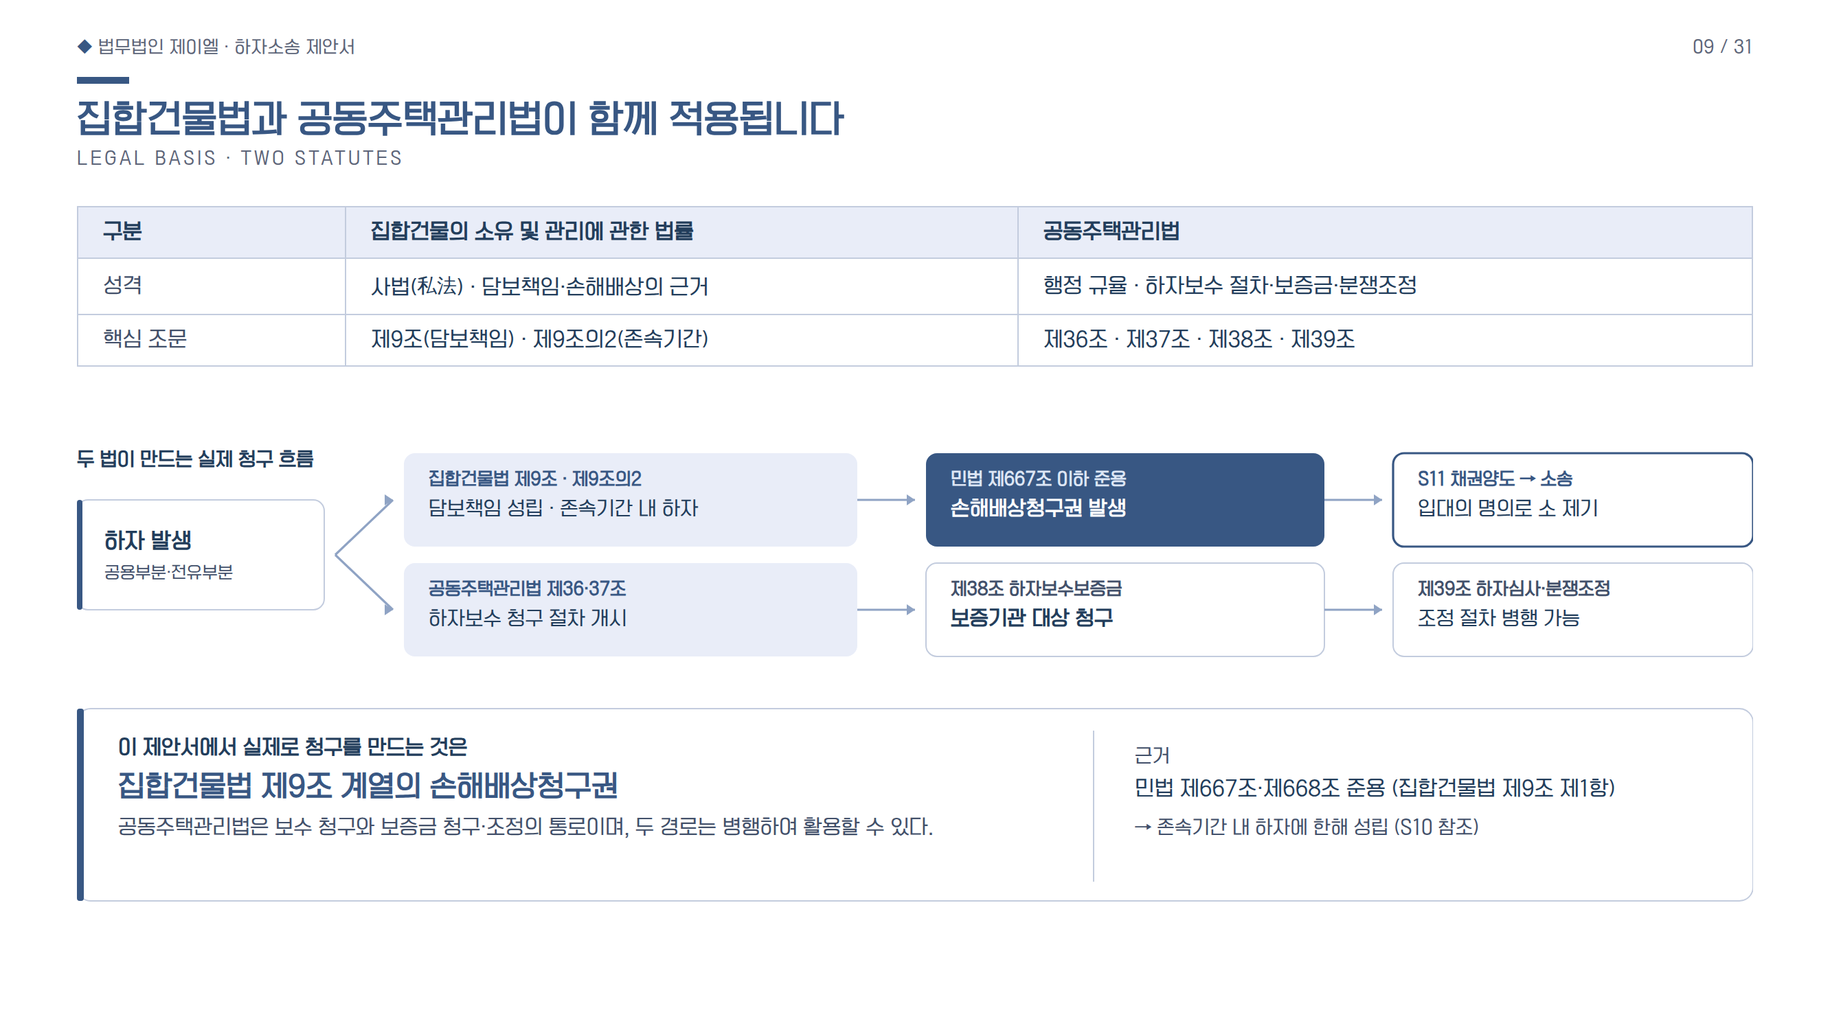
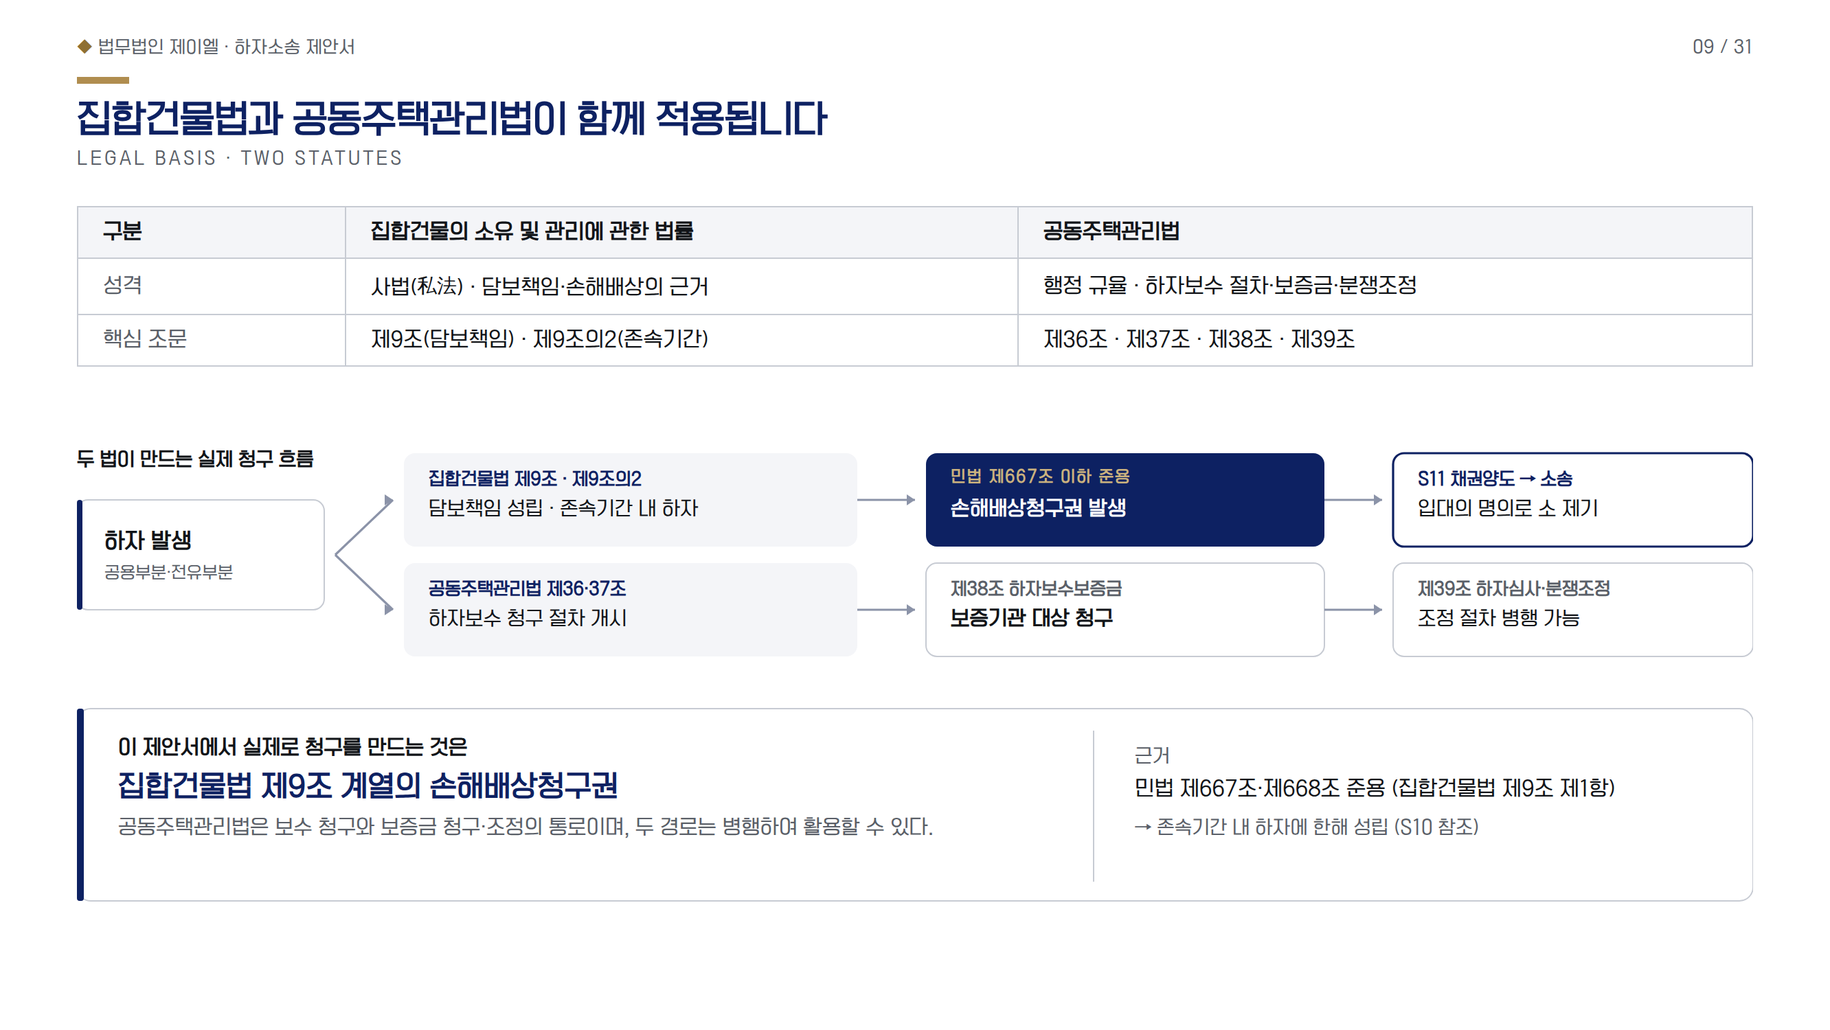
실제 홈페이지 톤(네이비+골드)으로 전환, S27 변호사 슬라이드 완성
지명원 파스텔톤이 아니라 kingjin77-rgb/jl-lawfirm-homepage 실제 CSS가
진짜 브랜드임을 확인. master.css를 NAVY #0D2162 + GOLD #B08D4F 체계로 교체.

- master.css: navy/gold 토큰, eyebrow 라벨, split(사진-텍스트) 패널 컴포넌트 추가
- S9: 네이비+골드로 재색칠
- S27 담당변호사 신규: 홈페이지 lawyer-grid 패턴 그대로 적용,
  변호사 6인 실제 사진(assets/lawyers/)으로 고선명 카드 그리드 제작
- 11 브랜드스타일가이드: 홈페이지 기준을 최우선으로 개정,
  leader/magfeature/lawyer-grid 실제 CSS 패턴 문서화

Claude-Session: https://claude.ai/code/session_01McKVzc7RRv66NSkAtofwT1

diff --git a/template/slides/fixed/s09_이원구조.html b/template/slides/fixed/s09_이원구조.html
@@ -9,89 +9,89 @@
   </div>
 
   <table style="position:absolute;top:150px;left:56px;right:56px;width:1220px;border-collapse:collapse;font-size:14.5px;">
-    <tr style="background:#E9EDF8;">
-      <th style="width:16%;text-align:left;padding:10px 18px;border:1.4px solid #C3CCDE;color:#223D5B;">구분</th>
-      <th style="text-align:left;padding:10px 18px;border:1.4px solid #C3CCDE;color:#223D5B;">집합건물의 소유 및 관리에 관한 법률</th>
-      <th style="text-align:left;padding:10px 18px;border:1.4px solid #C3CCDE;color:#223D5B;">공동주택관리법</th>
+    <tr style="background:#F4F5F8;">
+      <th style="width:16%;text-align:left;padding:10px 18px;border:1.4px solid #C7CBD3;color:#111418;">구분</th>
+      <th style="text-align:left;padding:10px 18px;border:1.4px solid #C7CBD3;color:#111418;">집합건물의 소유 및 관리에 관한 법률</th>
+      <th style="text-align:left;padding:10px 18px;border:1.4px solid #C7CBD3;color:#111418;">공동주택관리법</th>
     </tr>
     <tr>
-      <td style="padding:10px 18px;border:1.4px solid #C3CCDE;color:#42506A;">성격</td>
-      <td style="padding:10px 18px;border:1.4px solid #C3CCDE;">사법(私法) · 담보책임·손해배상의 근거</td>
-      <td style="padding:10px 18px;border:1.4px solid #C3CCDE;">행정 규율 · 하자보수 절차·보증금·분쟁조정</td>
+      <td style="padding:10px 18px;border:1.4px solid #C7CBD3;color:#5A5F68;">성격</td>
+      <td style="padding:10px 18px;border:1.4px solid #C7CBD3;">사법(私法) · 담보책임·손해배상의 근거</td>
+      <td style="padding:10px 18px;border:1.4px solid #C7CBD3;">행정 규율 · 하자보수 절차·보증금·분쟁조정</td>
     </tr>
     <tr>
-      <td style="padding:10px 18px;border:1.4px solid #C3CCDE;color:#42506A;">핵심 조문</td>
-      <td style="padding:10px 18px;border:1.4px solid #C3CCDE;">제9조(담보책임) · 제9조의2(존속기간)</td>
-      <td style="padding:10px 18px;border:1.4px solid #C3CCDE;">제36조 · 제37조 · 제38조 · 제39조</td>
+      <td style="padding:10px 18px;border:1.4px solid #C7CBD3;color:#5A5F68;">핵심 조문</td>
+      <td style="padding:10px 18px;border:1.4px solid #C7CBD3;">제9조(담보책임) · 제9조의2(존속기간)</td>
+      <td style="padding:10px 18px;border:1.4px solid #C7CBD3;">제36조 · 제37조 · 제38조 · 제39조</td>
     </tr>
   </table>
 
   <!-- 아래 절반: 실제 흐름 다이어그램으로 채움 -->
   <svg width="1220" height="370" viewBox="0 0 1220 370" style="position:absolute;top:320px;left:56px;">
-    <text x="0" y="18" font-size="13" font-weight="700" fill="#223D5B">두 법이 만드는 실제 청구 흐름</text>
-    <text x="1120" y="18" font-size="11" fill="#5C6478" letter-spacing="1" text-anchor="end">CLAIM FLOW</text>
+    <text x="0" y="18" font-size="13" font-weight="700" fill="#111418">두 법이 만드는 실제 청구 흐름</text>
+    <text x="1120" y="18" font-size="11" fill="#5A5F68" letter-spacing="1" text-anchor="end">CLAIM FLOW</text>
 
     <!-- 하자 발생 -->
-    <rect x="0" y="44" width="180" height="80" rx="8" fill="#FFFFFF" stroke="#C3CCDE"/>
-    <rect x="0" y="44" width="4" height="80" rx="2" fill="#385783"/>
-    <text x="20" y="78" font-size="15" font-weight="700" fill="#223D5B">하자 발생</text>
-    <text x="20" y="100" font-size="11.5" fill="#42506A">공용부분·전유부분</text>
+    <rect x="0" y="44" width="180" height="80" rx="8" fill="#FFFFFF" stroke="#C7CBD3"/>
+    <rect x="0" y="44" width="4" height="80" rx="2" fill="#0D2162"/>
+    <text x="20" y="78" font-size="15" font-weight="700" fill="#111418">하자 발생</text>
+    <text x="20" y="100" font-size="11.5" fill="#5A5F68">공용부분·전유부분</text>
 
     <!-- 화살표 분기 -->
-    <path d="M188,84 L230,44" stroke="#8FA3C4" stroke-width="1.6" fill="none"/>
-    <path d="M188,84 L230,124" stroke="#8FA3C4" stroke-width="1.6" fill="none"/>
-    <polygon points="230,44 224,48 224,40" fill="#8FA3C4"/>
-    <polygon points="230,124 224,128 224,120" fill="#8FA3C4"/>
+    <path d="M188,84 L230,44" stroke="#8B93A8" stroke-width="1.6" fill="none"/>
+    <path d="M188,84 L230,124" stroke="#8B93A8" stroke-width="1.6" fill="none"/>
+    <polygon points="230,44 224,48 224,40" fill="#8B93A8"/>
+    <polygon points="230,124 224,128 224,120" fill="#8B93A8"/>
 
     <!-- 상단: 집합건물법 트랙 -->
-    <rect x="238" y="10" width="330" height="68" rx="8" fill="#E9EDF8"/>
-    <text x="256" y="32" font-size="12" font-weight="700" fill="#385783">집합건물법 제9조 · 제9조의2</text>
-    <text x="256" y="54" font-size="13.5" fill="#223D5B">담보책임 성립 · 존속기간 내 하자</text>
+    <rect x="238" y="10" width="330" height="68" rx="8" fill="#F4F5F8"/>
+    <text x="256" y="32" font-size="12" font-weight="700" fill="#0D2162">집합건물법 제9조 · 제9조의2</text>
+    <text x="256" y="54" font-size="13.5" fill="#111418">담보책임 성립 · 존속기간 내 하자</text>
 
-    <path d="M568,44 L610,44" stroke="#8FA3C4" stroke-width="1.6" fill="none"/>
-    <polygon points="610,44 604,48 604,40" fill="#8FA3C4"/>
+    <path d="M568,44 L610,44" stroke="#8B93A8" stroke-width="1.6" fill="none"/>
+    <polygon points="610,44 604,48 604,40" fill="#8B93A8"/>
 
-    <rect x="618" y="10" width="290" height="68" rx="8" fill="#385783"/>
-    <text x="636" y="32" font-size="12" font-weight="700" fill="#DDE6F5">민법 제667조 이하 준용</text>
+    <rect x="618" y="10" width="290" height="68" rx="8" fill="#0D2162"/>
+    <text x="636" y="30" font-size="11" font-weight="700" fill="#CBB27E" letter-spacing="1">민법 제667조 이하 준용</text>
     <text x="636" y="54" font-size="14" font-weight="700" fill="#FFFFFF">손해배상청구권 발생</text>
 
-    <path d="M908,44 L950,44" stroke="#8FA3C4" stroke-width="1.6" fill="none"/>
-    <polygon points="950,44 944,48 944,40" fill="#8FA3C4"/>
+    <path d="M908,44 L950,44" stroke="#8B93A8" stroke-width="1.6" fill="none"/>
+    <polygon points="950,44 944,48 944,40" fill="#8B93A8"/>
 
-    <rect x="958" y="10" width="262" height="68" rx="8" fill="#FFFFFF" stroke="#385783" stroke-width="1.6"/>
-    <text x="976" y="32" font-size="12" font-weight="700" fill="#385783">S11 채권양도 → 소송</text>
-    <text x="976" y="54" font-size="13.5" fill="#223D5B">입대의 명의로 소 제기</text>
+    <rect x="958" y="10" width="262" height="68" rx="8" fill="#FFFFFF" stroke="#0D2162" stroke-width="1.6"/>
+    <text x="976" y="32" font-size="12" font-weight="700" fill="#0D2162">S11 채권양도 → 소송</text>
+    <text x="976" y="54" font-size="13.5" fill="#111418">입대의 명의로 소 제기</text>
 
     <!-- 하단: 공동주택관리법 트랙 -->
-    <rect x="238" y="90" width="330" height="68" rx="8" fill="#E9EDF8"/>
-    <text x="256" y="112" font-size="12" font-weight="700" fill="#385783">공동주택관리법 제36·37조</text>
-    <text x="256" y="134" font-size="13.5" fill="#223D5B">하자보수 청구 절차 개시</text>
+    <rect x="238" y="90" width="330" height="68" rx="8" fill="#F4F5F8"/>
+    <text x="256" y="112" font-size="12" font-weight="700" fill="#0D2162">공동주택관리법 제36·37조</text>
+    <text x="256" y="134" font-size="13.5" fill="#111418">하자보수 청구 절차 개시</text>
 
-    <path d="M568,124 L610,124" stroke="#8FA3C4" stroke-width="1.6" fill="none"/>
-    <polygon points="610,124 604,128 604,120" fill="#8FA3C4"/>
+    <path d="M568,124 L610,124" stroke="#8B93A8" stroke-width="1.6" fill="none"/>
+    <polygon points="610,124 604,128 604,120" fill="#8B93A8"/>
 
-    <rect x="618" y="90" width="290" height="68" rx="8" fill="#FFFFFF" stroke="#C3CCDE"/>
-    <text x="636" y="112" font-size="12" font-weight="700" fill="#42506A">제38조 하자보수보증금</text>
-    <text x="636" y="134" font-size="14" font-weight="700" fill="#223D5B">보증기관 대상 청구</text>
+    <rect x="618" y="90" width="290" height="68" rx="8" fill="#FFFFFF" stroke="#C7CBD3"/>
+    <text x="636" y="112" font-size="12" font-weight="700" fill="#5A5F68">제38조 하자보수보증금</text>
+    <text x="636" y="134" font-size="14" font-weight="700" fill="#111418">보증기관 대상 청구</text>
 
-    <path d="M908,124 L950,124" stroke="#8FA3C4" stroke-width="1.6" fill="none"/>
-    <polygon points="950,124 944,128 944,120" fill="#8FA3C4"/>
+    <path d="M908,124 L950,124" stroke="#8B93A8" stroke-width="1.6" fill="none"/>
+    <polygon points="950,124 944,128 944,120" fill="#8B93A8"/>
 
-    <rect x="958" y="90" width="262" height="68" rx="8" fill="#FFFFFF" stroke="#C3CCDE"/>
-    <text x="976" y="112" font-size="12" font-weight="700" fill="#42506A">제39조 하자심사·분쟁조정</text>
-    <text x="976" y="134" font-size="13.5" fill="#223D5B">조정 절차 병행 가능</text>
+    <rect x="958" y="90" width="262" height="68" rx="8" fill="#FFFFFF" stroke="#C7CBD3"/>
+    <text x="976" y="112" font-size="12" font-weight="700" fill="#5A5F68">제39조 하자심사·분쟁조정</text>
+    <text x="976" y="134" font-size="13.5" fill="#111418">조정 절차 병행 가능</text>
 
     <!-- 하단 결론 밴드 -->
-    <rect x="0" y="196" width="1220" height="140" rx="10" fill="#FFFFFF" stroke="#C3CCDE"/>
-    <rect x="0" y="196" width="5" height="140" rx="2" fill="#385783"/>
-    <text x="30" y="228" font-size="14" font-weight="700" fill="#223D5B">이 제안서에서 실제로 청구를 만드는 것은</text>
-    <text x="30" y="258" font-size="20" font-weight="700" fill="#385783">집합건물법 제9조 계열의 손해배상청구권</text>
-    <text x="30" y="286" font-size="14" fill="#42506A">공동주택관리법은 보수 청구와 보증금 청구·조정의 통로이며, 두 경로는 병행하여 활용할 수 있다.</text>
+    <rect x="0" y="196" width="1220" height="140" rx="10" fill="#FFFFFF" stroke="#C7CBD3"/>
+    <rect x="0" y="196" width="5" height="140" rx="2" fill="#0D2162"/>
+    <text x="30" y="228" font-size="14" font-weight="700" fill="#111418">이 제안서에서 실제로 청구를 만드는 것은</text>
+    <text x="30" y="258" font-size="20" font-weight="700" fill="#0D2162">집합건물법 제9조 계열의 손해배상청구권</text>
+    <text x="30" y="286" font-size="14" fill="#5A5F68">공동주택관리법은 보수 청구와 보증금 청구·조정의 통로이며, 두 경로는 병행하여 활용할 수 있다.</text>
 
-    <line x1="740" y1="212" x2="740" y2="322" stroke="#C3CCDE"/>
-    <text x="770" y="234" font-size="13" fill="#42506A">근거</text>
-    <text x="770" y="258" font-size="14.5" fill="#223D5B">민법 제667조·제668조 준용 (집합건물법 제9조 제1항)</text>
-    <text x="770" y="286" font-size="13" fill="#42506A">→ 존속기간 내 하자에 한해 성립 (S10 참조)</text>
+    <line x1="740" y1="212" x2="740" y2="322" stroke="#C7CBD3"/>
+    <text x="770" y="234" font-size="13" fill="#5A5F68">근거</text>
+    <text x="770" y="258" font-size="14.5" fill="#111418">민법 제667조·제668조 준용 (집합건물법 제9조 제1항)</text>
+    <text x="770" y="286" font-size="13" fill="#5A5F68">→ 존속기간 내 하자에 한해 성립 (S10 참조)</text>
   </svg>
 
   <div class="footer"><span class="firm">법무법인 제이엘</span><span>JL LAWFIRM</span></div>

diff --git a/template/slides/fixed/s27_담당변호사.html b/template/slides/fixed/s27_담당변호사.html
@@ -1,0 +1,87 @@
+<!doctype html><html><head><meta charset="utf-8">
+<link rel="stylesheet" href="../_master.css">
+<style>
+.lgrid{position:absolute;top:150px;left:56px;right:56px;bottom:44px;display:grid;
+  grid-template-columns:repeat(6,1fr);gap:14px;}
+.lcard{background:#fff;border:1px solid #C7CBD3;display:flex;flex-direction:column;overflow:hidden;}
+.lphoto{position:relative;aspect-ratio:4/5;overflow:hidden;background:radial-gradient(circle at 50% 30%,#EFF2FB,#dfe3ec);}
+.lphoto img{width:100%;height:100%;object-fit:cover;display:block;}
+.lbody{padding:14px 14px 16px;flex:1;display:flex;flex-direction:column;}
+.lrole{font-size:10px;letter-spacing:.14em;color:#0D2162;font-weight:700;}
+.lname{margin-top:6px;font-size:17px;font-weight:800;color:#111418;}
+.lcareer{margin-top:10px;border-top:1px solid #C7CBD3;padding-top:10px;flex:1;}
+.lcareer li{position:relative;padding-left:11px;font-size:11px;color:#5A5F68;line-height:1.55;margin-bottom:4px;}
+.lcareer li::before{content:"";position:absolute;left:0;top:6px;width:3px;height:3px;background:#B6BBC2;border-radius:50%;}
+.lcareer li strong{color:#222;font-weight:600;}
+</style></head>
+<body>
+  <div class="runner"><span><span class="mark">◆</span> 법무법인 제이엘 · 하자소송 제안서</span><span>27 / 31</span></div>
+  <div class="title-block">
+    <div class="title-mark"></div>
+    <div class="title-kr">6인의 변호사가 이 사건을 직접 수행합니다</div>
+    <div class="title-en">ASSOCIATE ATTORNEYS</div>
+  </div>
+
+  <div class="lgrid">
+    <div class="lcard">
+      <div class="lphoto"><img src="img/박종일.png"></div>
+      <div class="lbody"><div class="lrole">대표변호사</div><div class="lname">박종일</div>
+        <ul class="lcareer">
+          <li><strong>사법고시 38회</strong> · 연수원 28기</li>
+          <li>수원·광주·부산지검 부장검사</li>
+          <li>제21회 공인회계사</li>
+          <li>경기도 법률자문위원</li>
+        </ul></div>
+    </div>
+    <div class="lcard">
+      <div class="lphoto"><img src="img/이지훈.png"></div>
+      <div class="lbody"><div class="lrole">변호사</div><div class="lname">이지훈</div>
+        <ul class="lcareer">
+          <li><strong>사법고시 52회</strong> · 연수원 42기</li>
+          <li>세무사 자격 · 건설 전문</li>
+          <li>신한·하나은행 법률자문</li>
+          <li>경기주택도시공사 법률고문</li>
+        </ul></div>
+    </div>
+    <div class="lcard">
+      <div class="lphoto"><img src="img/장우진.png"></div>
+      <div class="lbody"><div class="lrole">변호사</div><div class="lname">장우진</div>
+        <ul class="lcareer">
+          <li><strong>사법고시 52회</strong> · 연수원 42기</li>
+          <li>서울중앙지검·고검 공익법무관</li>
+          <li>서울중앙지법 민사조정위원</li>
+          <li>고려대 법과대학</li>
+        </ul></div>
+    </div>
+    <div class="lcard">
+      <div class="lphoto"><img src="img/임준규.png"></div>
+      <div class="lbody"><div class="lrole">변호사</div><div class="lname">임준규</div>
+        <ul class="lcareer">
+          <li><strong>사법고시 52회</strong> · 연수원 42기</li>
+          <li>형사법 전문 · 대한법률구조공단</li>
+          <li>법무부 국가송무·공익법무관</li>
+          <li>EY한영회계법인 세무본부</li>
+        </ul></div>
+    </div>
+    <div class="lcard">
+      <div class="lphoto"><img src="img/하혜용.png"></div>
+      <div class="lbody"><div class="lrole">변호사</div><div class="lname">하혜용</div>
+        <ul class="lcareer">
+          <li><strong>제10회 변호사시험</strong></li>
+          <li>충북대학교 법학전문대학원</li>
+          <li>인하대학교 법학과</li>
+        </ul></div>
+    </div>
+    <div class="lcard">
+      <div class="lphoto"><img src="img/오현진.jpg"></div>
+      <div class="lbody"><div class="lrole">변호사</div><div class="lname">오현진</div>
+        <ul class="lcareer">
+          <li><strong>제14회 변호사시험</strong></li>
+          <li>헌법재판소 실무수습</li>
+          <li>사법연수원 재판실무심화연수</li>
+        </ul></div>
+    </div>
+  </div>
+
+  <div class="footer"><span class="firm">법무법인 제이엘</span><span>JL LAWFIRM</span></div>
+</body></html>

diff --git a/template/slides/_master.css b/template/slides/_master.css
@@ -1,7 +1,11 @@
 /* 기본제안서 마스터 스타일 — 11_브랜드_스타일가이드.md 기준 */
+/* 홈페이지(kingjin77-rgb/jl-lawfirm-homepage) 실제 톤앤매너 기준.
+   지명원(인쇄 소개서) 파스텔톤이 아니라 이 값이 진짜 브랜드다. */
 :root{
-  --primary:#385783; --ink:#223D5B; --dark:#2A3B4F; --muted:#5C6478;
-  --card:#E9EDF8; --watermark:#C7CEE1; --line:#C3CCDE; --bg:#FFFFFF;
+  --navy:#0D2162; --navy-deep:#081541; --navy-soft:#EFF2FB;
+  --gold:#B08D4F; --gold-light:#CBB27E; --gold-ink:#8F7033;
+  --primary:#0D2162; --ink:#111418; --dark:#081541; --muted:#5A5F68;
+  --card:#F4F5F8; --watermark:#DDE2ED; --line:#C7CBD3; --bg:#FFFFFF;
   --alert:#C0392B; --warn:#E67E22;
 }
 @font-face{font-family:'210 옴니고딕';src:local('210 옴니고딕 030');}
@@ -12,17 +16,27 @@ body{width:1332px;height:750px;background:var(--bg);
 /* 상단 러너 */
 .runner{position:absolute;top:28px;left:56px;right:56px;display:flex;justify-content:space-between;
   font-size:12px;color:var(--muted);letter-spacing:.02em;}
-.runner .mark{color:var(--primary);}
+.runner .mark{color:var(--gold-ink);}
+.eyebrow{font-size:12px;letter-spacing:.2em;color:var(--gold-ink);font-weight:700;
+  display:inline-flex;align-items:center;gap:10px;}
+.eyebrow::before{content:"";width:32px;height:1px;background:var(--gold-ink);}
 /* 제목 마크 */
 .title-block{position:absolute;top:56px;left:56px;}
-.title-mark{width:38px;height:5px;background:var(--primary);margin-bottom:12px;}
-.title-kr{font-size:26px;font-weight:700;color:var(--primary);}
+.title-mark{width:38px;height:5px;background:var(--gold);margin-bottom:12px;}
+.title-kr{font-size:26px;font-weight:800;color:var(--navy);letter-spacing:-.02em;}
 .title-en{font-size:12px;color:var(--muted);letter-spacing:.16em;margin-top:6px;}
 /* 하단 브랜드바 */
 .footer{position:absolute;bottom:0;left:0;right:0;height:36px;
   display:flex;align-items:center;justify-content:space-between;
   padding:0 56px;border-top:1.5px solid var(--line);font-size:11px;color:var(--muted);}
-.footer .firm{color:var(--primary);font-weight:700;}
+.footer .firm{color:var(--navy);font-weight:700;}
+/* 좌(사진)-우(텍스트) 분할 패널 — 홈페이지 leader/magfeature 패턴, 여백 없이 꽉 채움 */
+.split{display:flex;position:absolute;top:0;left:0;right:0;bottom:0;}
+.split__photo{width:42%;position:relative;overflow:hidden;background:linear-gradient(150deg,#1b2b57,#4b6bab);}
+.split__photo img{width:100%;height:100%;object-fit:cover;display:block;}
+.split__body{width:58%;background:var(--navy);color:#fff;padding:64px 56px;display:flex;flex-direction:column;justify-content:center;}
+.split__body .eyebrow{color:var(--gold-light);}
+.split__body .eyebrow::before{background:var(--gold-light);}
 /* 카드 공통 */
 .card{background:#fff;border:1px solid var(--line);border-radius:10px;}
 .badge-num{width:28px;height:28px;border-radius:6px;background:var(--card);

diff --git a/proposal/11_브랜드_스타일가이드.md b/proposal/11_브랜드_스타일가이드.md
@@ -1,5 +1,41 @@
 # 법무법인 제이엘 브랜드 스타일 가이드
 
+> **개정**: 이 문서는 원래 지명원(인쇄 소개서) 기준으로 작성됐다. 이후 실제 홈페이지(`kingjin77-rgb/jl-lawfirm-homepage`)를 확인한 결과 **홈페이지가 진짜 브랜드 톤**이고, 지명원은 인쇄용으로 파스텔 처리된 별개 버전이었다. 이제부터 **홈페이지 기준을 우선**한다.
+
+## 0. 실제 톤앤매너 (홈페이지 기준, 최우선)
+
+| 역할 | 값 |
+|---|---|
+| NAVY | `#0D2162` |
+| NAVY DEEP | `#081541` |
+| NAVY SOFT | `#EFF2FB` (사진 없는 인물 카드 배경) |
+| GOLD | `#B08D4F` (선·아이콘·어두운 배경 위 텍스트) |
+| GOLD LIGHT | `#CBB27E` (다크 패널 위 eyebrow 라벨) |
+| GOLD INK | `#8F7033` (흰 배경 위 텍스트 — GOLD는 흰 배경 대비 3.1:1로 부족) |
+| INK | `#111418` |
+| GRAY 700/500 | `#4B515A` / `#5A5F68` |
+| LINE | `#C7CBD3` |
+
+### 레이아웃 문법 — 실제 사용 패턴
+
+- **eyebrow 라벨**: 짧은 가로선(32px, 1px) + 자간 0.2em 대문자. 골드 계열
+- **leader 패턴** (인물 강조): 좌 42% 사진(꽉 채움, object-fit:cover) / 우 58% 네이비 배경+흰 텍스트
+- **lawyer-grid 패턴**: 4:5 비율 사진 카드 그리드. 사진 아래 역할(네이비, 작게)+이름(굵게)+경력 리스트(점 불릿)
+- **magfeature 패턴**: 좌 사진(그라디언트 배경) / 우 네이비 배경. 카테고리 라벨(골드)+제목(흰색 굵게)
+- **여백을 사진과 색면으로 채운다.** 흰 여백을 남기지 않고 사진이 패널 전체(top:0 bottom:0)를 채움
+
+### 적용 슬라이드
+
+| 슬라이드 | 패턴 |
+|---|---|
+| S27 담당변호사 | lawyer-grid — 완성 (`template/slides/fixed/s27_담당변호사.html`) |
+| S1 표지, S26 법인개요 | leader/magfeature 패턴 적용 예정 (단지 전경·사무실 사진 필요) |
+| S9 등 데이터 슬라이드 | 사진 없이 네이비+골드 색상만 적용 |
+
+---
+
+# 법무법인 제이엘 브랜드 스타일 가이드
+
 출처: `법무법인 제이엘 · 지명원` 38면 (홈페이지 레포 `kingjin77-rgb/jl-lawfirm-homepage`)
 색상은 눈대중이 아니라 **원본 이미지에서 픽셀 추출**해 확정했다.
 
